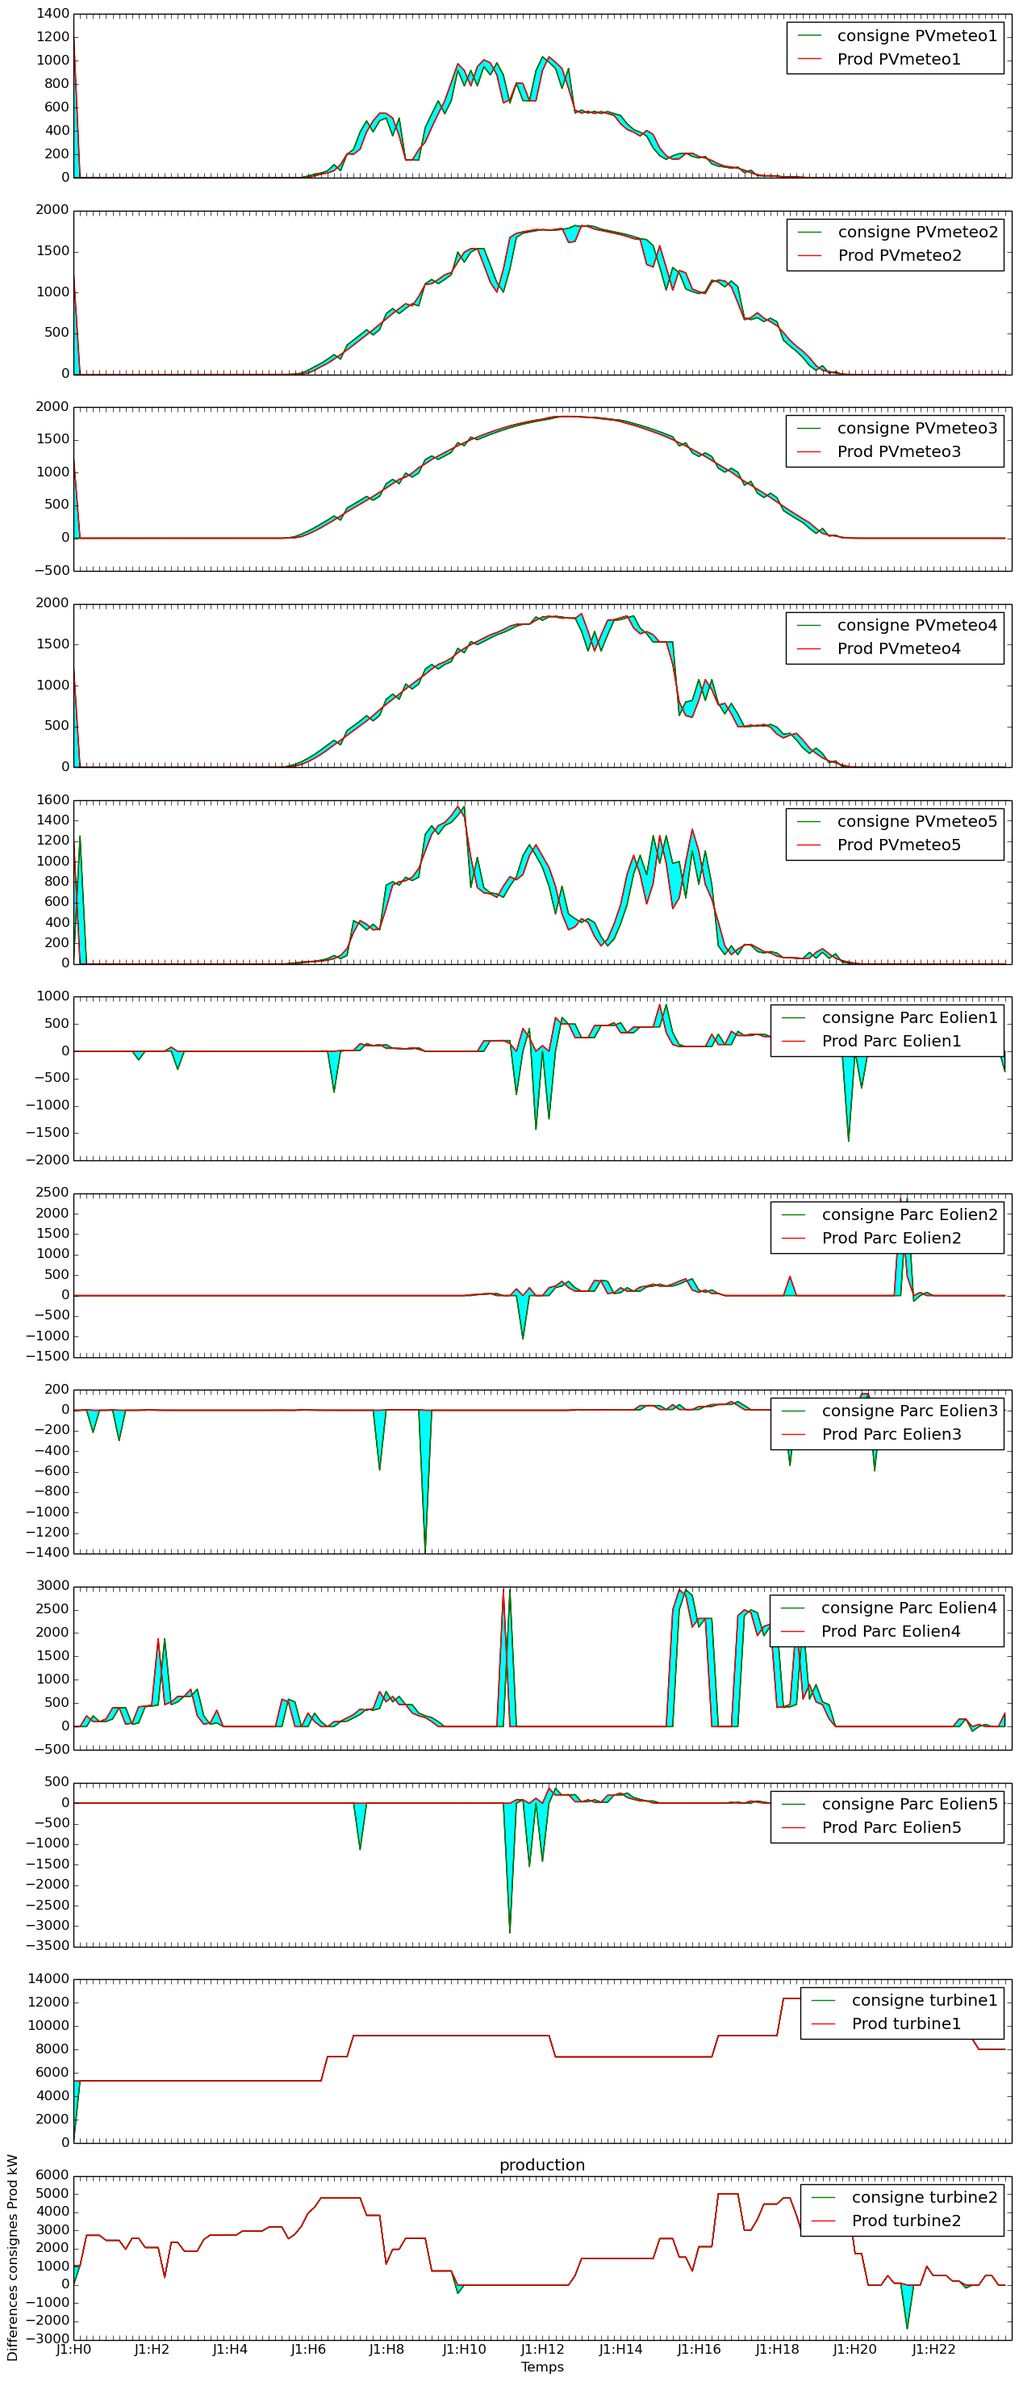
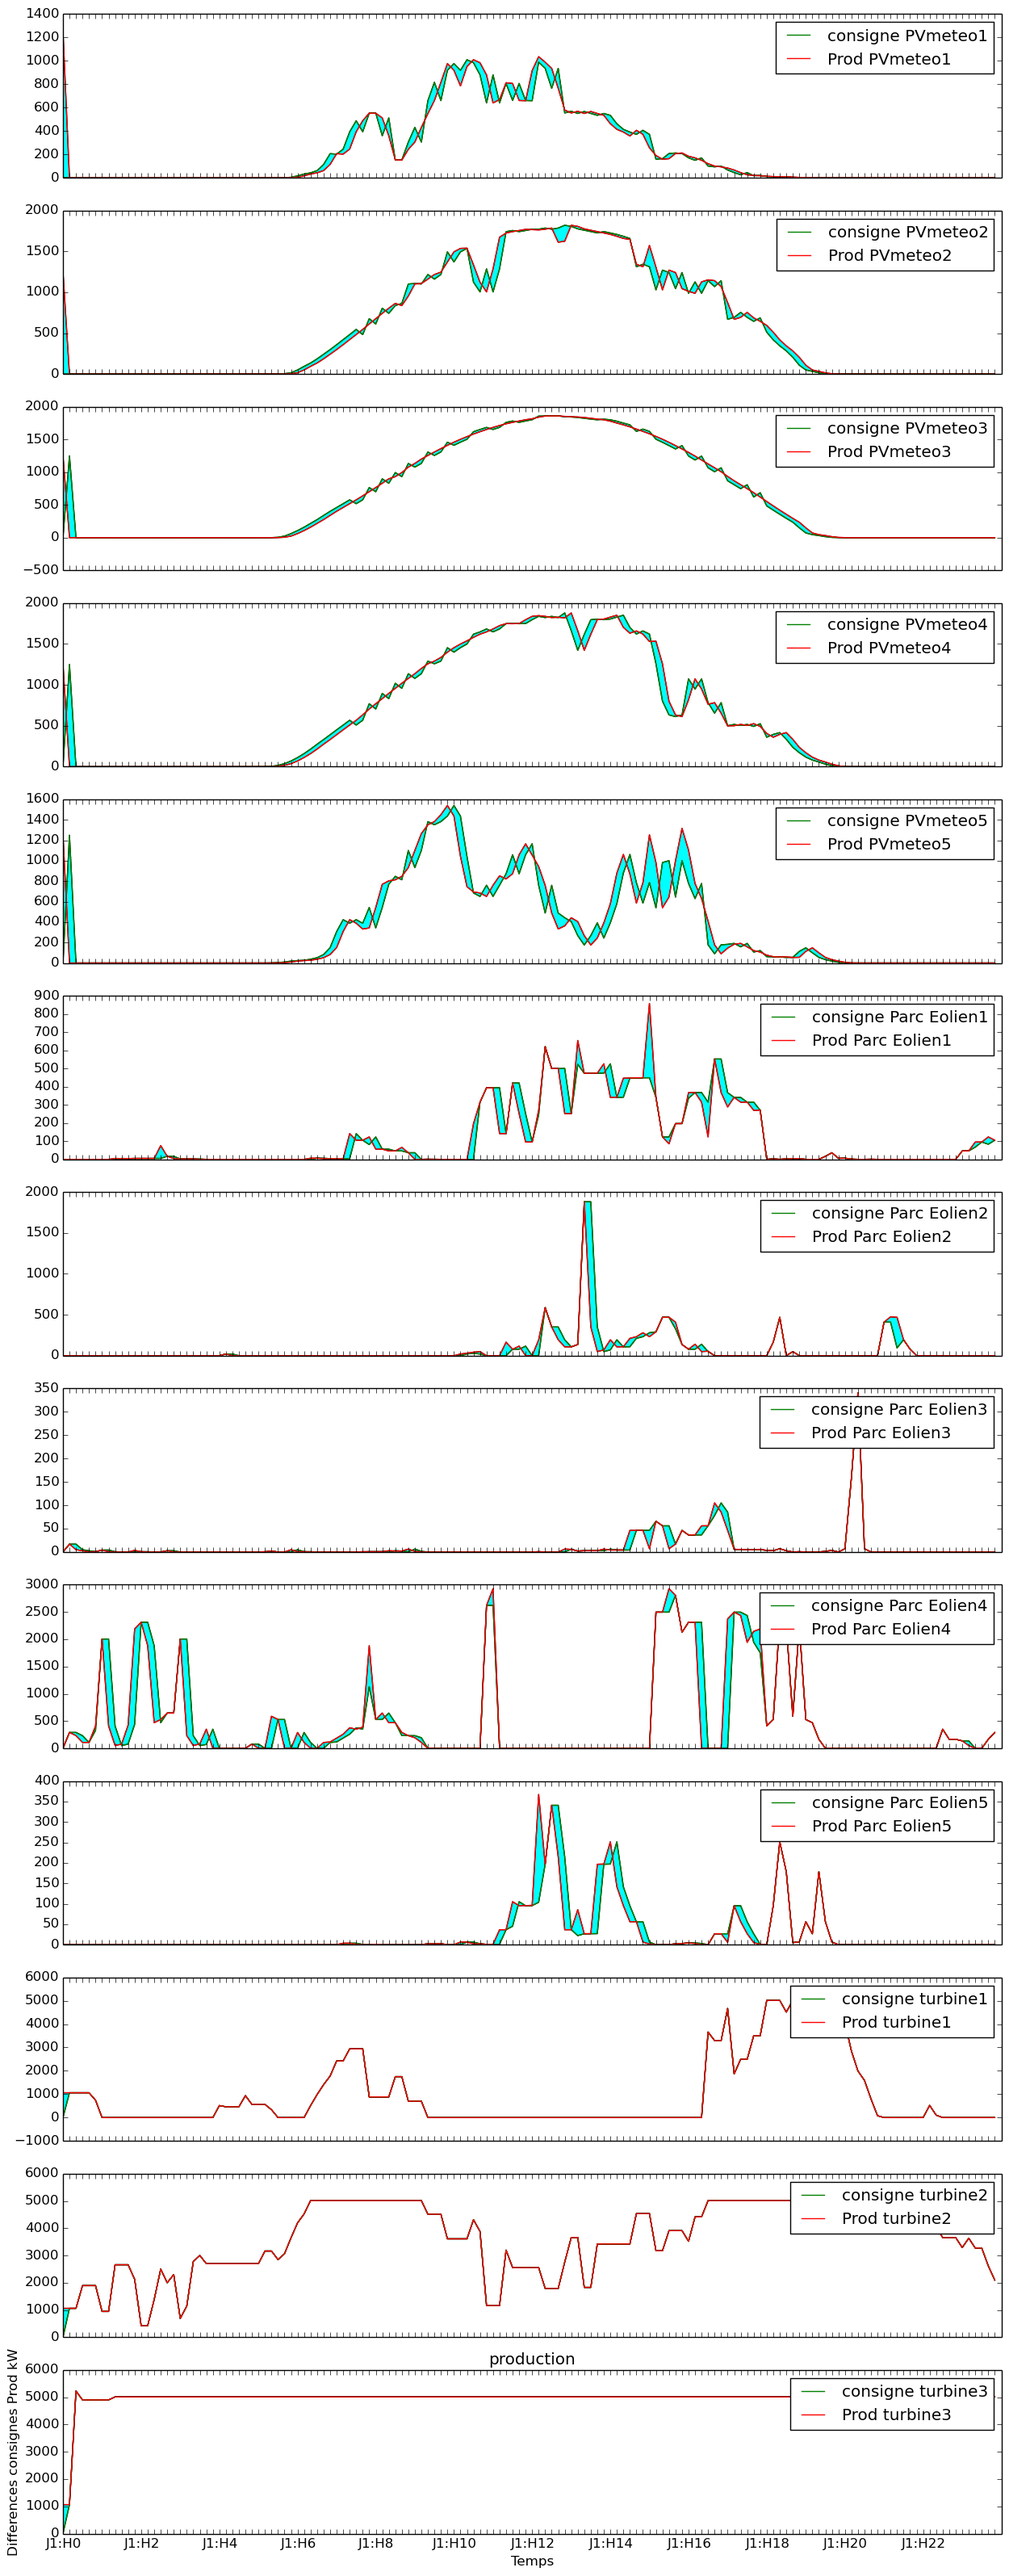
euh...

diff --git a/Ville.py b/Ville.py
@@ -28,14 +28,9 @@ class Ville:
 		                        ParcEolien(nom="eolienne,meteo3",n=500., eolienne="eolienne5", meteoVent=meteo3),\
 		                        ParcEolien(nom="eolienne,meteo4",n=5., eolienne="eolienne1500", meteoVent=meteo4),\
 		                        ParcEolien(nom="eolienne,meteo5",n=500., eolienne="eolienne5", meteoVent=meteo5),\
-<<<<<<< HEAD
-		                        ParcTurbineAGaz("turbine1",varcout=1.,nombre=30),\
-		                        ParcTurbineAGaz("turbine2",varcout=1.13,nombre=6)]
-=======
 		                        ParcTurbineAGaz("turbine1",varcout=1.,nombre=6),\
 		                        ParcTurbineAGaz("turbine2",varcout=1.10,nombre=6),\
 		                        ParcTurbineAGaz("turbine3",varcout=1.13,nombre=6)]
->>>>>>> d5d88831f0cdbad9082339ecd7bbb9fbf44e93d0
 		self.equipConso = [ParcUsine38("Usine2-38"),\
 						   ParcMaison("parcmaison1",nombre=1200),\
 		                   ParcUsine("Usine1"),\

diff --git a/Equipement/Stockage.py b/Equipement/Stockage.py
@@ -14,6 +14,8 @@ class Stockage(Equipement):
 
 	def etatSuivant(self, consigne=0., effacement=0.):
 		self.activite = consigne
+                if self.activite < 10.**(-3):
+                    self.activite = 0.
 		self.reste = max(0., self.reste - self.activite/100.*self.PROD_MAX*600.) # on retire la puissance dégagée * 600s
 
 	def simulation(self):
@@ -21,7 +23,7 @@ class Stockage(Equipement):
 			prod_max=100.
 		else:
 			prod_max= self.reste*100./(self.PROD_MAX*600.) 
-                        if prod_max < 10**(-3):
+                        if prod_max < 10.**(-3):
                             prod_max =0.
 		prix_min = 0.
 		prix_stable = self.activite/100.*self.cout*self.PROD_MAX

diff --git a/Equipement/ParcMagasins.py b/Equipement/ParcMagasins.py
@@ -47,3 +47,8 @@ class ParcMagasins (Utilitaire) : # des commerces de centre ville aux petits sup
         (prod_min,cout_min)=self.prevision(0.,0.) 
         (prod_max,cout_max)=self.prevision(0.,100.)
         return(prod_min,prod_max,cout_min,self.cout,cout_max)      
+
+if __name__=="__main__":
+	m=ParcMagasins()
+        print m.activite
+        print m.etatSuivant(100.)
